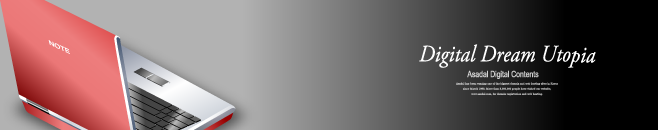
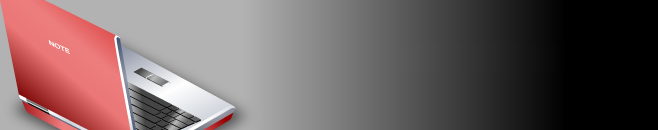
* Aenderung der Transparenz und der Positionierung des Inhaltes und des Footers

Changed region(s): [[0.6383, 0.3385, 0.9119, 0.5231], [0.6991, 0.5231, 0.8511, 0.7385]]

diff --git a/screen.css b/screen.css
@@ -3,9 +3,10 @@ body { color: #FFF; font-family: "Tahoma"; padding: 10px; background: url(images
 
 #root { width: 850px; margin: 0 auto; }
 #banner { width: 100%; height: 100px; background: #000 url(images/banner.png) no-repeat; }
-#content { width: 100%; min-height: 1500px; background: #00F; }
+#content { width: 100%; min-height: 1500px; background-color: rgba(50,50,50,0.6); }
+#content-inner { width: 100%; padding: 10px; }
 #footer { width: 100%; padding: 0; }
-#copyright { width: 100%; height: 20px; background: #0FF; }
+#copyright { width: 100%; height: 20px; background: #000; }
 #debug { width: 100%; margin: 0 auto; font-size: 11px; font-family: Courier; color: #FFF; background: #000; }
 
 /* 

diff --git a/templates/layout.tpl.php b/templates/layout.tpl.php
@@ -73,7 +73,9 @@
       </ul>
     </div>
     <div id="content">
+      <div id="content-inner">
 <?php echo $content; ?>
+      </div>
     </div>
     <div id="footer">
       <div id="copyright"></div>
